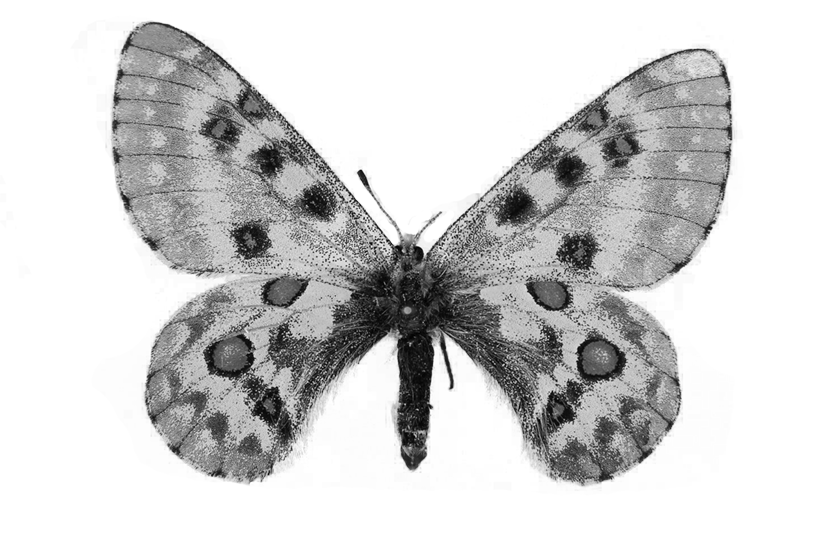
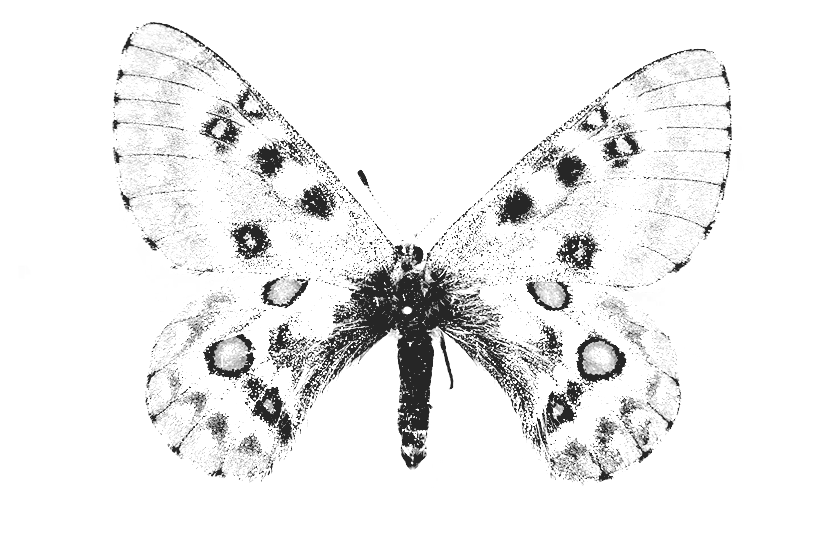
- update background image

diff --git a/staging/index.html b/staging/index.html
@@ -13,7 +13,7 @@ body {font-size:16px;}
 .w3-half img:hover{opacity:1}
 
 .background{
-    background-image: url('../assets/img/b_eun.png');
+    background-image: url('../assets/img/p_smi_bw.png');
     background-repeat: no-repeat;
     background-position: bottom left;
     padding-left: 0px;
